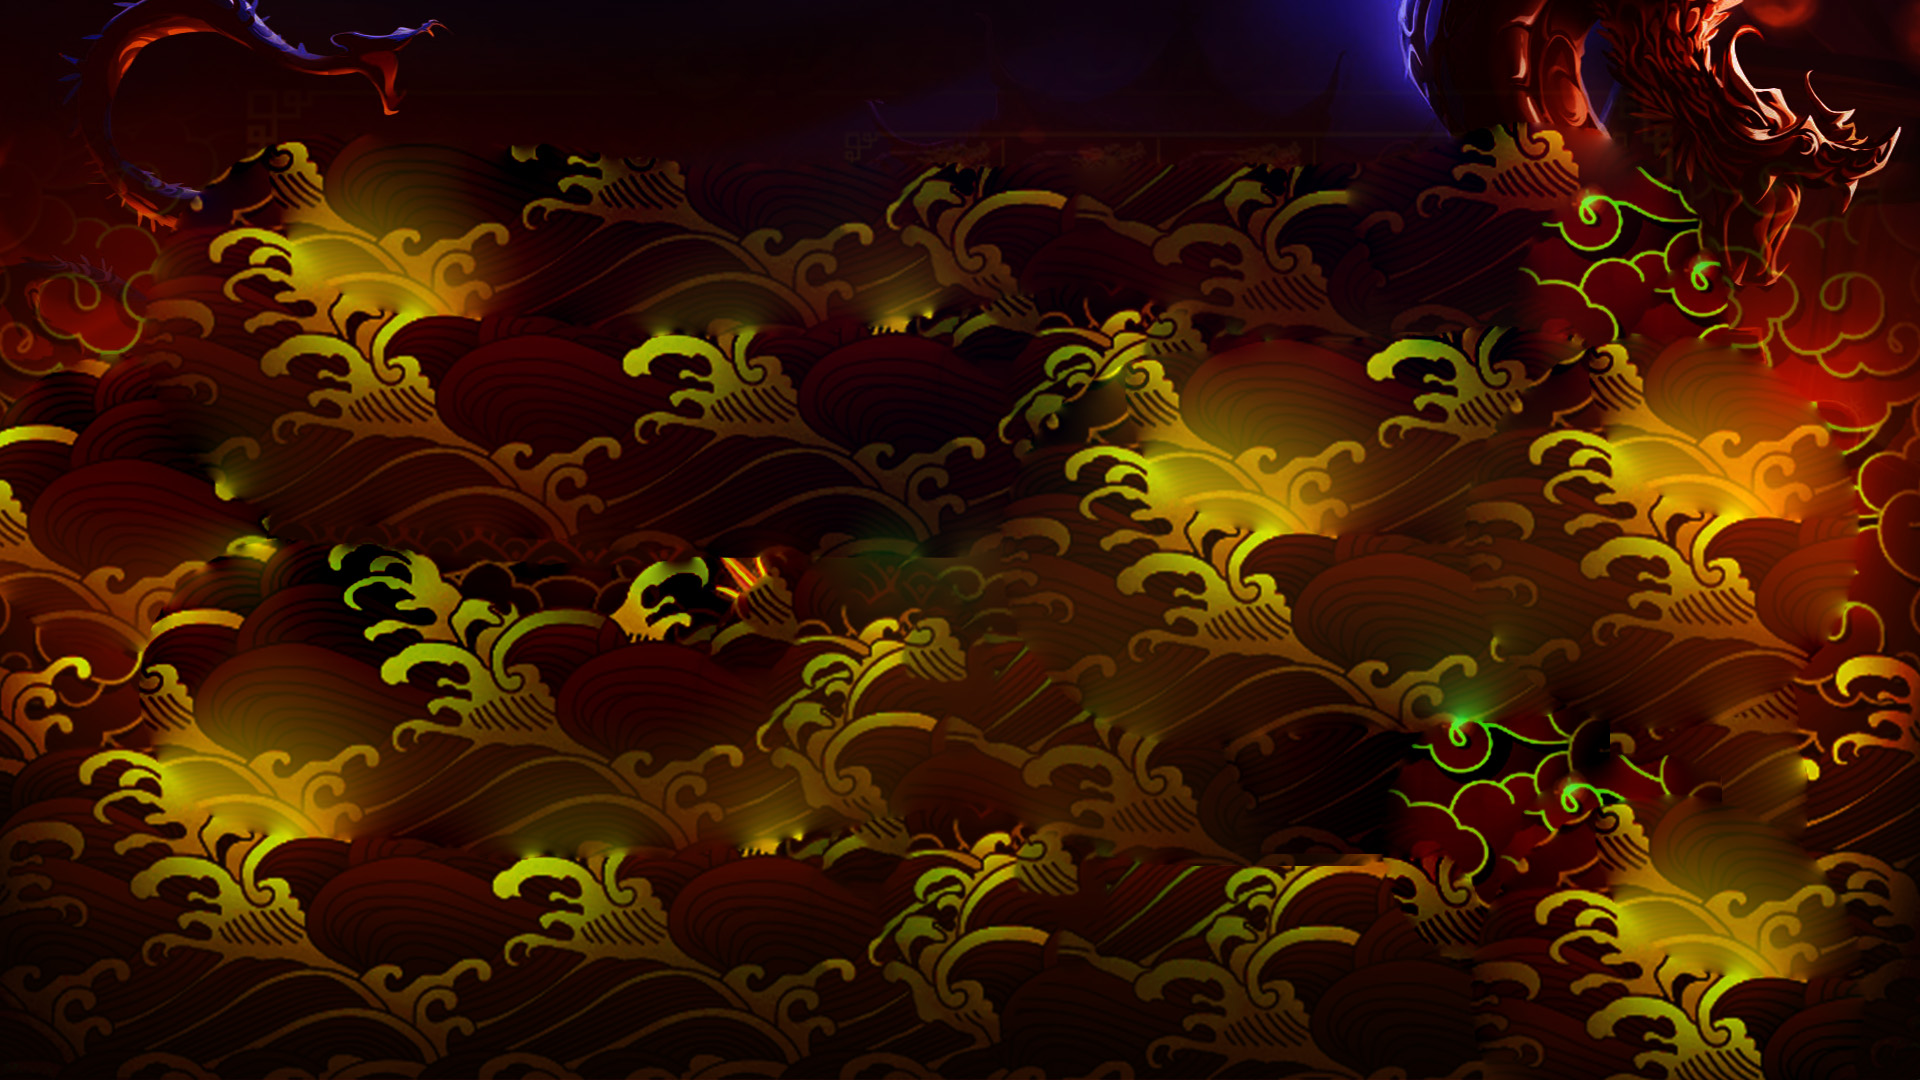
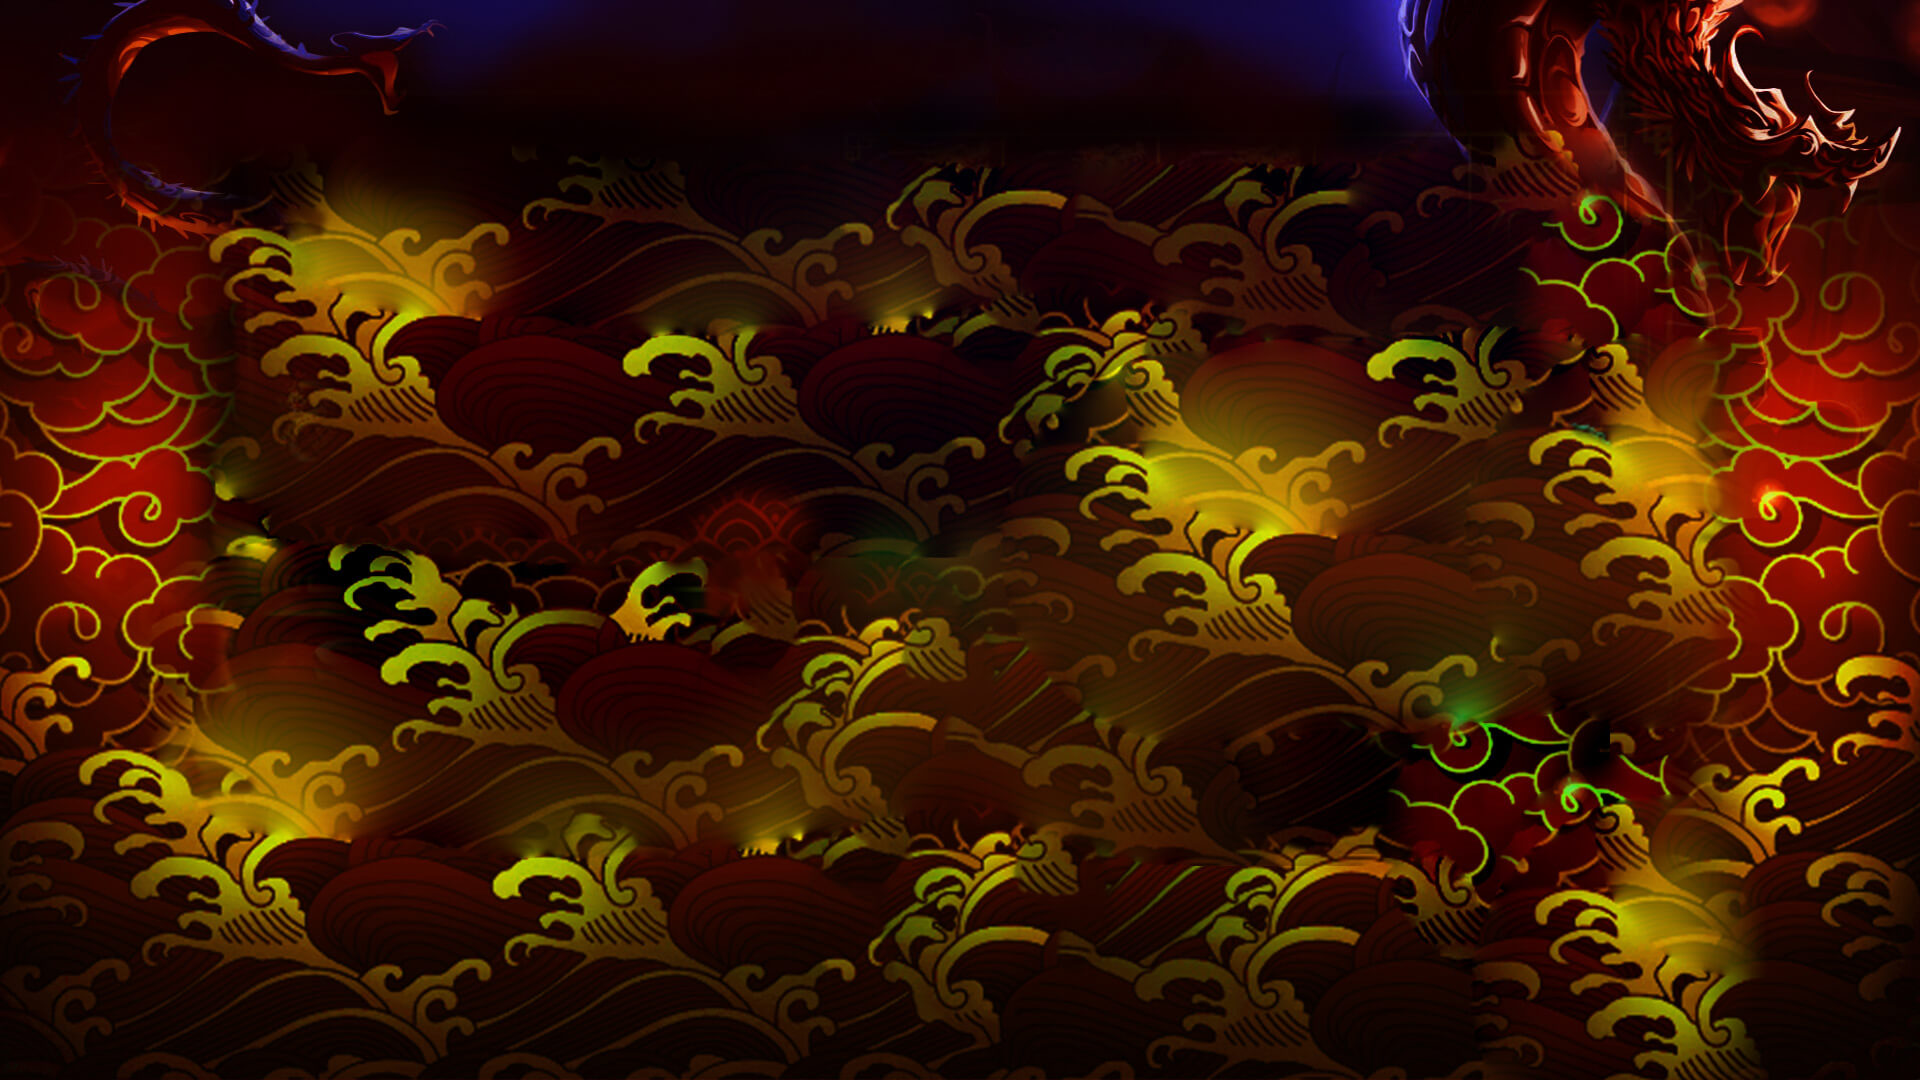
[dev]修改

diff --git a/ShenShou/bin-debug/game/ui/GameScene.js b/ShenShou/bin-debug/game/ui/GameScene.js
@@ -1270,7 +1270,7 @@ var game;
                 this.mc2 = null;
             }
             if (this.wildbg) {
-                this.wildbg.parent.removeChild(this.mc2);
+                this.wildbg.parent.removeChild(this.wildbg);
                 this.wildbg = null;
             }
             if (this.value == "1") {
